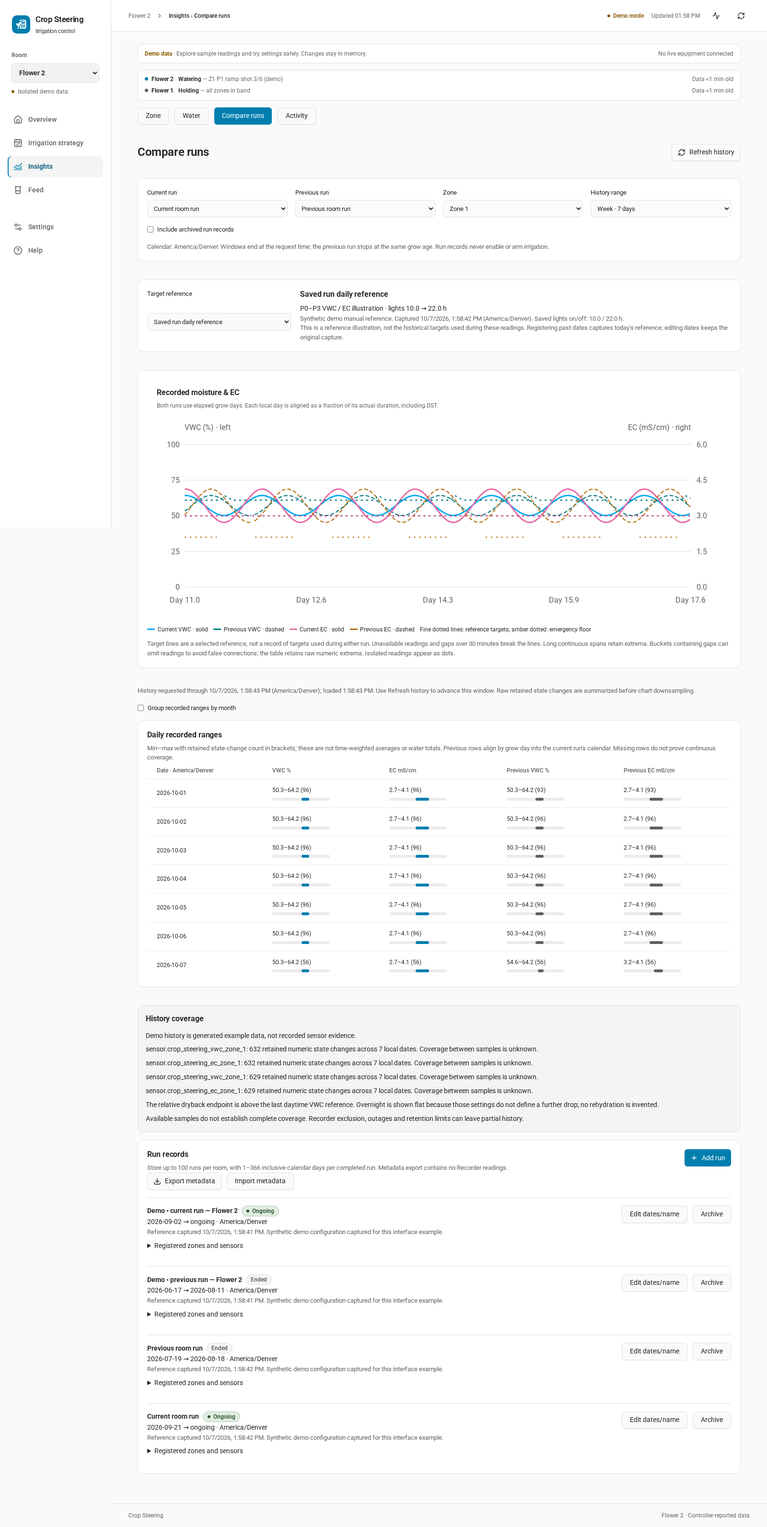
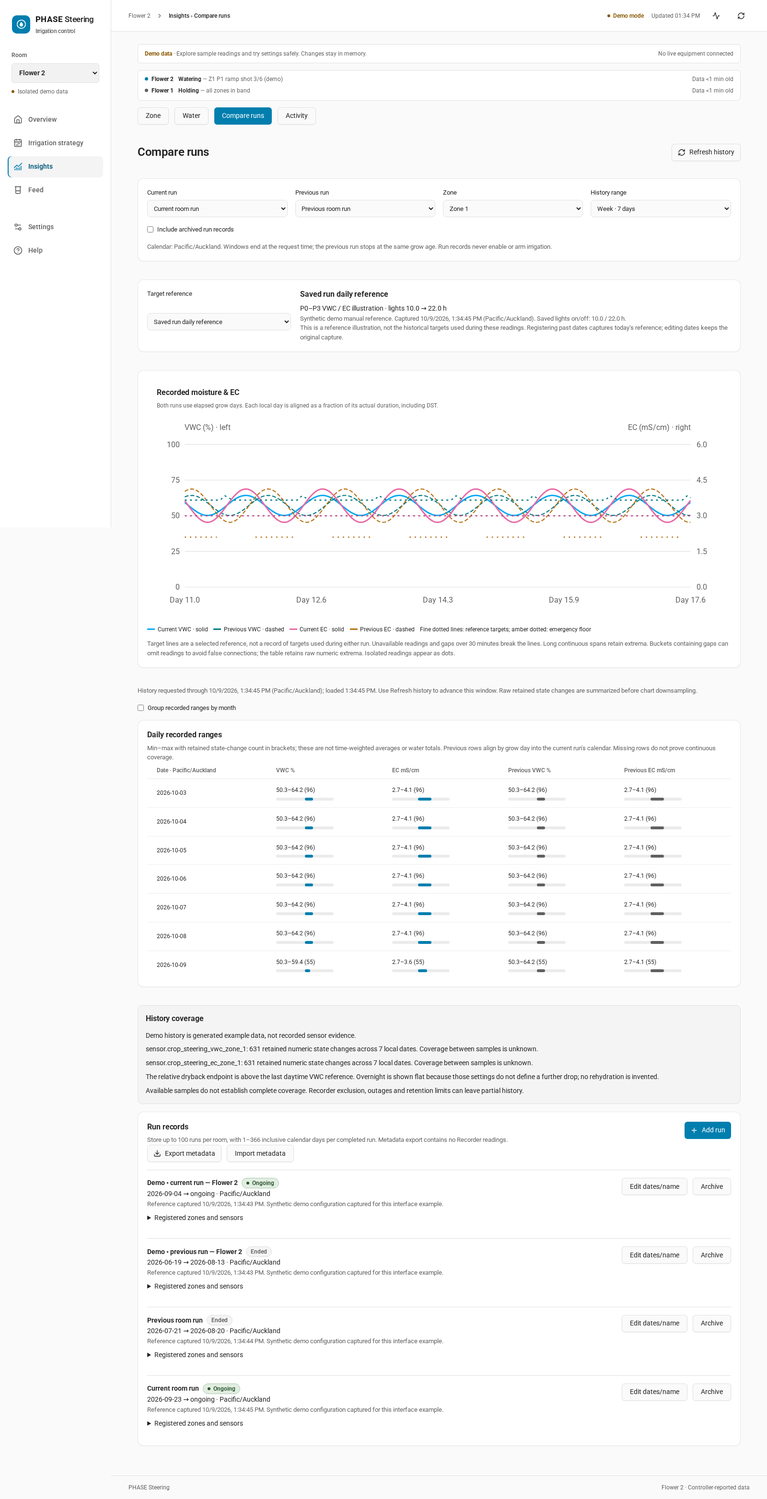
docs: PHASE Steering, what it stands for, and the screenshots with its mark
The README opens with what PHASE stands for, Precision Hydration And Steering Engine, and says it
was called Crop Steering until 1.0.2. The README, the install guide, How it works, the entity
reference, the sidebar and troubleshooting pages and the user guide say PHASE Steering (the CCI
e-book keeps its own title). The seven screenshots that show the menu are retaken with the new
mark. The changelog and What's new have the release's lines, brief.

diff --git a/tests/test_licence.py b/tests/test_licence.py
@@ -1,4 +1,4 @@
-"""The MIT licence travels with every part a box installs, and the README credits where Crop
+"""The MIT licence travels with every part a box installs, and the README credits where PHASE
 Steering began.
 
 HACS installs only custom_components/crop_steering, the app's image is built from addons/f2_control

diff --git a/docs/INSTALL.md b/docs/INSTALL.md
@@ -4,10 +4,10 @@
 
 ## What gets installed
 
-| Component                 | Where it runs                                                       | Purpose                                                                                                                                |
-| ------------------------- | ------------------------------------------------------------------- | -------------------------------------------------------------------------------------------------------------------------------------- |
-| Crop Steering integration | Home Assistant custom integration                                   | Room/zone configuration, entities, stored strategies, reviewed APIs and the native sidebar workspace.                                       |
-| Crop Steering Controller  | A Home Assistant app (Settings → Apps)                              | Reads the configuration and sensors, makes irrigation decisions and sequences equipment.                                               |
+| Component                  | Where it runs                                                       | Purpose                                                                                                                                |
+| -------------------------- | ------------------------------------------------------------------- | -------------------------------------------------------------------------------------------------------------------------------------- |
+| PHASE Steering integration | Home Assistant custom integration                                   | Room/zone configuration, entities, stored strategies, reviewed APIs and the native sidebar workspace.                                       |
+| PHASE Steering Controller  | A Home Assistant app (Settings → Apps)                              | Reads the configuration and sensors, makes irrigation decisions and sequences equipment.                                               |
 
 Install the integration and controller together. HACS, the integration's setup and Settings → Apps are separate steps. The guided links open those screens; they cannot pair devices, prove flow or bypass HA confirmations.
 
@@ -24,9 +24,9 @@ Install the integration and the controller app at the same version: both carry o
 ## Guided installation
 
 1. [Open this repository in HACS](https://my.home-assistant.io/redirect/hacs_repository/?owner=Chill-Division&repository=HA-Irrigation-Strategy&category=integration). Download the integration and restart HA. If HACS is absent, install HACS first or use the manual path below.
-2. [Start the Crop Steering config flow](https://my.home-assistant.io/redirect/config_flow_start/?domain=crop_steering). Name the room and say how many zones it has, then map each zone's valve and probes, and give the room's plumbing, lights hours and pot and dripper sizes. Later, **Settings → Rooms & hardware** (step 5) changes the mapping and sizes, and **Irrigation strategy → Today** the lights hours.
-3. [Add the app repository](https://my.home-assistant.io/redirect/supervisor_add_addon_repository/?repository_url=https%3A%2F%2Fgithub.com%2FChill-Division%2FHA-Irrigation-Strategy). In **Settings → Apps**, install **Crop Steering Controller**. Keep the affected engine enable flags OFF, review the app options, then start the app so it can publish its heartbeat and discover configuration. From then on it starts with the host (**Start on boot** is on unless you turn it off); turn on **Watchdog** as well, so Supervisor restarts it if it stops. Supervisor supplies the internal HA token; do not paste a token into a repository file.
-4. Open **Crop Steering** in the HA sidebar. The integration serves its bundled dashboard automatically; no manual dashboard YAML or custom Lovelace card installation is required. The controller's ingress can also serve the same dashboard. In supported HA shells, use the workspace's **Home Assistant** or house button to reopen the temporarily collapsed HA sidebar; see [sidebar behavior](HA_SIDEBAR.md).
+2. [Start the PHASE Steering config flow](https://my.home-assistant.io/redirect/config_flow_start/?domain=crop_steering). Name the room and say how many zones it has, then map each zone's valve and probes, and give the room's plumbing, lights hours and pot and dripper sizes. Later, **Settings → Rooms & hardware** (step 5) changes the mapping and sizes, and **Irrigation strategy → Today** the lights hours.
+3. [Add the app repository](https://my.home-assistant.io/redirect/supervisor_add_addon_repository/?repository_url=https%3A%2F%2Fgithub.com%2FChill-Division%2FHA-Irrigation-Strategy). In **Settings → Apps**, install **PHASE Steering Controller**. Keep the affected engine enable flags OFF, review the app options, then start the app so it can publish its heartbeat and discover configuration. From then on it starts with the host (**Start on boot** is on unless you turn it off); turn on **Watchdog** as well, so Supervisor restarts it if it stops. Supervisor supplies the internal HA token; do not paste a token into a repository file.
+4. Open **PHASE Steering** in the HA sidebar. The integration serves its bundled dashboard automatically; no manual dashboard YAML or custom Lovelace card installation is required. The controller's ingress can also serve the same dashboard. In supported HA shells, use the workspace's **Home Assistant** or house button to reopen the temporarily collapsed HA sidebar; see [sidebar behavior](HA_SIDEBAR.md).
 5. In **Settings → Rooms & hardware**, select or add a room. Name its zones. Search HA entities by friendly name or ID and check their units/current states while mapping valves, VWC probes, EC probes and room equipment. Multiple probes can be selected per zone. Every zone needs its valve. Under **Shared room hardware**, say how the room is plumbed: a tent with one smart plug or solenoid is *Zone valves only* and maps that switch as the zone's valve and nothing else; a room where water only flows while a pump runs is *A pump, then zone valves* and must have the pump chosen. The switches have to match the answer, and the controller holds a room whose switches stop matching rather than watering it with no pump.
 6. Enter substrate litres **per plant**, plant count, drippers per plant and each dripper's L/hour.
 7. Choose **Review configuration**, then **Save configuration**. Setup validates entity domains, moisture/EC units, duplicate valve assignments, revision conflicts and readable OFF states of the affected engine/equipment. A saved configuration and controller acknowledgement are shown separately; wait for **Mapping acknowledged** instead of assuming a save has already reached the controller.
@@ -62,7 +62,7 @@ Update an existing controller in place from this repository. A controller instal
 1. Back up HA, the controller's persistent data and existing setpoints. Export irrigation strategies if available. Record which engines are enabled.
 2. Turn the affected engines off and wait for the pump, mainline and valves to be OFF. Stop the existing controller while replacing software.
 3. Refresh your existing app repository and update that controller in place to the release's version. A restart alone does not rebuild an old image. Do not install a second copy. The controller starts with the host unless its **Start on boot** was turned off, so a host restart during the upgrade starts it; with the engines off (step 2) it waters nothing.
-4. Download the same version of the integration through HACS and restart HA. Confirm every Crop Steering room finishes loading.
+4. Download the same version of the integration through HACS and restart HA. Confirm every PHASE Steering room finishes loading.
 5. Start the controller with engines still off. Verify its version, fresh heartbeat, both room descriptors, sensor readings, setup acknowledgement and strategy capability. Compare current setpoints and pot/dripper sizing with the backup.
 6. Restore the engines' previous enabled states after these checks. An upgrade does not require arming a strategy or replacing existing values with defaults.
 
@@ -70,9 +70,9 @@ If an update is missing from Settings → Apps, refresh the repository informati
 
 ### Moving a controller installed from another repository
 
-Crop Steering started at `JakeTheRabbit/HA-Irrigation-Strategy`, and its controller was also mirrored to `JakeTheRabbit/f2-control`. Supervisor names an app after the repository it came from, so the same controller from another repository is a separate app with its own data: `f50c47e4_f2_control` from this repository, `6db5faba_f2_control` from `JakeTheRabbit/HA-Irrigation-Strategy` and `4d457e60_f2_control` from the mirror. Moving is a one-time reinstall that carries the runtime state across:
+PHASE Steering, called Crop Steering until 1.0.2, started at `JakeTheRabbit/HA-Irrigation-Strategy`, and its controller was also mirrored to `JakeTheRabbit/f2-control`. Supervisor names an app after the repository it came from, so the same controller from another repository is a separate app with its own data: `f50c47e4_f2_control` from this repository, `6db5faba_f2_control` from `JakeTheRabbit/HA-Irrigation-Strategy` and `4d457e60_f2_control` from the mirror. Moving is a one-time reinstall that carries the runtime state across:
 
-1. Add this repository in Settings → Apps and install **Crop Steering Controller** from it. Do not start it, and turn its **Start on boot** off for now: it is on by default, and a host restart before step 6 would otherwise start both apps.
+1. Add this repository in Settings → Apps and install **PHASE Steering Controller** from it. Do not start it, and turn its **Start on boot** off for now: it is on by default, and a host restart before step 6 would otherwise start both apps.
 2. Copy the old app's Configuration into the new app: every option.
 3. Turn every engine kill switch off and wait until the pump, mainline and valves read OFF.
 4. Stop the old app and turn off its Start on boot and Watchdog.

diff --git a/README.md b/README.md
@@ -1,11 +1,13 @@
-# Crop Steering for Home Assistant
+# PHASE Steering for Home Assistant
 
 ![Release](https://img.shields.io/badge/Release-1.0.1-blue)
 ![Home Assistant](https://img.shields.io/badge/Home%20Assistant-2026.5+-41BDF5)
 ![HACS](https://img.shields.io/badge/HACS-Custom-orange)
 ![License](https://img.shields.io/badge/License-MIT-green)
 
-Crop Steering waters a grow room automatically. Every minute it reads each zone's moisture and EC probes, decides whether the zone needs a shot and how big, and runs your pump and valves to deliver it, through the four-phase day that crop-steering growers use. It runs inside [Home Assistant](https://www.home-assistant.io/) with the probes, pumps and valves you already have, on your own hardware: no cloud account, no subscription.
+**PHASE** stands for **Precision Hydration And Steering Engine**. It was called Crop Steering until 1.0.2.
+
+PHASE Steering waters a grow room automatically. Every minute it reads each zone's moisture and EC probes, decides whether the zone needs a shot and how big, and runs your pump and valves to deliver it, through the four-phase day that crop-steering growers use. It runs inside [Home Assistant](https://www.home-assistant.io/) with the probes, pumps and valves you already have, on your own hardware: no cloud account, no subscription.
 
 **Deterministic, sensor-driven crop steering.** No AI makes any decision. Every shot comes from a published rule and your setpoints: the same readings, settings and day so far always give the same decision, and the dashboard shows the numbers behind each one. Nothing guesses, nothing makes up a reading, and nothing apologises after the fact.
 
@@ -47,15 +49,15 @@ More in the [screenshots](https://github.com/Chill-Division/HA-Irrigation-Strate
 
 ## Install
 
-Crop Steering comes in two parts, and watering needs both: the **integration** keeps your rooms, settings and strategies and adds the Crop Steering page to the sidebar, but never switches anything; the **controller app** reads the probes and runs the pump and valves.
+PHASE Steering comes in two parts, and watering needs both: the **integration** keeps your rooms, settings and strategies and adds the PHASE Steering page to the sidebar, but never switches anything; the **controller app** reads the probes and runs the pump and valves.
 
 1. **Download the integration with HACS**, then restart Home Assistant.
    [![Open your Home Assistant instance and open this repository in HACS.](https://my.home-assistant.io/badges/hacs_repository.svg)](https://my.home-assistant.io/redirect/hacs_repository/?owner=Chill-Division&repository=HA-Irrigation-Strategy&category=integration)
-2. **Add Crop Steering** and name your first room.
-   [![Open your Home Assistant instance and start setting up Crop Steering.](https://my.home-assistant.io/badges/config_flow_start.svg)](https://my.home-assistant.io/redirect/config_flow_start/?domain=crop_steering)
-3. **Add the controller app's repository**, then install and start **Crop Steering Controller**.
+2. **Add PHASE Steering** and name your first room.
+   [![Open your Home Assistant instance and start setting up PHASE Steering.](https://my.home-assistant.io/badges/config_flow_start.svg)](https://my.home-assistant.io/redirect/config_flow_start/?domain=crop_steering)
+3. **Add the controller app's repository**, then install and start **PHASE Steering Controller**.
    [![Open your Home Assistant instance and add this app repository.](https://my.home-assistant.io/badges/supervisor_add_addon_repository.svg)](https://my.home-assistant.io/redirect/supervisor_add_addon_repository/?repository_url=https%3A%2F%2Fgithub.com%2FChill-Division%2FHA-Irrigation-Strategy)
-4. **Open Crop Steering in the sidebar.** Map your valves, pump and probes in **Settings, Rooms & hardware**, check the readings on the **Overview**, and keep watering switched off until everything reads correctly.
+4. **Open PHASE Steering in the sidebar.** Map your valves, pump and probes in **Settings, Rooms & hardware**, check the readings on the **Overview**, and keep watering switched off until everything reads correctly.
 
 **Updating:** both parts carry one version number; update them together. Update the integration in HACS and restart Home Assistant, then press **Update** on the controller app (restarting it alone keeps the old version). Updates keep your rooms, settings, strategies and history. The [install guide](https://github.com/Chill-Division/HA-Irrigation-Strategy/blob/main/docs/INSTALL.md) covers manual installs, upgrades and rolling back.
 
@@ -69,11 +71,11 @@ Crop Steering comes in two parts, and watering needs both: the **integration** k
 
 ## Support
 
-Report a problem or ask a question in [GitHub issues](https://github.com/Chill-Division/HA-Irrigation-Strategy/issues). Include the error code if there is one, both version numbers (shown in the Crop Steering sidebar), and what the controller app's log says.
+Report a problem or ask a question in [GitHub issues](https://github.com/Chill-Division/HA-Irrigation-Strategy/issues). Include the error code if there is one, both version numbers (shown in the PHASE Steering sidebar), and what the controller app's log says.
 
 ## Credits
 
-Crop Steering began as [JakeTheRabbit's HA-Irrigation-Strategy](https://github.com/JakeTheRabbit/HA-Irrigation-Strategy), and this project carries it on.
+PHASE Steering began as [JakeTheRabbit's HA-Irrigation-Strategy](https://github.com/JakeTheRabbit/HA-Irrigation-Strategy), and this project carries it on.
 
 ## License
 

diff --git a/docs/troubleshooting.md b/docs/troubleshooting.md
@@ -15,7 +15,7 @@ for what it means, what happens to watering meanwhile, the likely causes and wha
 | Probe rejected for its unit                        | Pore EC is accepted in mS/cm, dS/m and µS/cm; moisture in % or m³/m³. Other units are converted exactly or refused. `ppm` is refused because the 500 or 700 scale is not something a sensor reports: expose the probe's EC reading instead.                                                                                                                                             |
 | Room saved but never waters, and it has one switch | A zone needs only its valve; pump and main-line valve are optional. Under **Shared room hardware** choose *Zone valves only*, map the single switch as the zone's valve and leave pump and main-line empty. One switch cannot be used in two roles.                                                                                                                                             |
 | Room has a pump, shots are counted, VWC never rises | The room has never said how it is plumbed, so the controller works it out from what is mapped: an empty pump field means it never runs a pump, opens the zone switch and counts the shot as delivered. Open **Settings → Rooms & hardware** (or *Configure*), choose the layout with a pump, choose the pump, save. From then on a missing pump holds the room instead of running it dry; see the [first-run review](audits/2026-09-21-first-run-review.md). |
-| Setup stops with *Home Assistant is still running Crop Steering X, but Y is installed* | HACS replaces the files; Home Assistant goes on running the code it loaded when it started. Restart Home Assistant, then add Crop Steering again. The first setup screen, the add-a-room screen and the **Configure** menu all show the version that is actually running. A room set up on stale code keeps whatever that code created, entity ids included, and those are for life: the symptoms are a controller reporting *settings missing, running on built-in values* (CS-402), a sidebar reading *Integration: not reported*, and entities called `number.<your device>_crop_steering_…`. The way out is to delete the integration, restart Home Assistant, and set it up again. |
+| Setup stops with *Home Assistant is still running PHASE Steering X, but Y is installed* | HACS replaces the files; Home Assistant goes on running the code it loaded when it started. Restart Home Assistant, then add PHASE Steering again. The first setup screen, the add-a-room screen and the **Configure** menu all show the version that is actually running. A room set up on stale code keeps whatever that code created, entity ids included, and those are for life: the symptoms are a controller reporting *settings missing, running on built-in values* (CS-402), a sidebar reading *Integration: not reported*, and entities called `number.<your device>_crop_steering_…`. The way out is to delete the integration, restart Home Assistant, and set it up again. |
 | Repairs says *N setting(s) are not where the controller looks for them (CS-605)* | The controller and the dashboard find a setting by its exact entity id (`number.crop_steering_zone_1_plant_count`), and the listed ones are registered under another id, so the controller runs on its built-in defaults for them and reports *settings missing, running on built-in values* (CS-402). Keep the engine off. One or two listed: an entity id was edited; change it back under Settings → Devices & services → Entities → the entity → the cog. Nearly all listed: the room was created while Home Assistant was still running an older integration (see the row above); delete the entry, restart Home Assistant, add it again. The card clears by itself, and nothing is renamed for you. |
 | Repairs: *kill switch helper missing (CS-601)*, asking for `input_boolean.f2_control_enabled` | Only a room that really is gated by that helper (an install from before the setup wizard) needs it: create it as a Toggle helper and leave it OFF until you are ready to water. **On a room made by the wizard, do not create it.** Such a room has its own kill switch, *Engine Enabled* (`switch.crop_steering_engine_enabled`); the helper would be a second one that does nothing. See [CS-601](ERROR_CODES.md#cs-601). |
 | Alert: *moisture reading hasn't changed (CS-101)*, but the sensor shows a value | The controller treats a reading that has not **changed** for 20 minutes as a dead probe, and waters that zone on a timed safety schedule instead (a shot every 90 minutes by default, within the daily cap). This is deliberate: a probe pulled out of its cube keeps reporting a steady number, and the plant it left behind still needs water. It also happens to a probe sitting in a cube with **no plant in it**, or pegged at its maximum in a soaked one, because nothing is drinking and the number never moves. Expect it on a bench test; with a plant drawing water it clears by itself. A room with nothing growing can be switched off (**Switch room off…** on the Overview, *Room Active* in Home Assistant), which stops its notifications. See [CS-101](ERROR_CODES.md#cs-101). |

diff --git a/CHANGELOG.md b/CHANGELOG.md
@@ -1,6 +1,6 @@
 # Changelog
 
-All notable changes to the Advanced Automated Crop Steering System will be documented in this file.
+All notable changes to PHASE Steering (Crop Steering until 1.0.2) will be documented in this file.
 
 **Two views per release.** Each version leads with what changed and why it matters, written so
 anyone can follow it without knowing the internals, followed by **🔧 Technical notes**, the entity-
@@ -8,6 +8,35 @@ and code-level detail for developers and AI agents working on the repo.
 
 The format is based on [Keep a Changelog](https://keepachangelog.com/en/1.0.0/),
 and this project adheres to [Semantic Versioning](https://semver.org/spec/v2.0.0.html).
+
+## [Unreleased]
+
+- **Crop Steering is now PHASE Steering**, short for Precision Hydration And Steering Engine, with
+  a new icon: the day's four phases around a drop of water. Nothing else changes: your rooms,
+  settings, strategies, history and automations carry on as they were.
+
+### 🔧 Technical notes
+
+- Names only. The integration (`manifest.json`, `hacs.json`), its sidebar entry (now
+  `mdi:water-circle`), the room's device, the zones' entity names (`PHASE Steering Zone N …`), the
+  setup wizard's default name, the setup and Repairs texts, the error codes, the dashboard, the
+  controller app (`PHASE Steering Controller`, its panel and `repository.yaml`) and the brand images.
+  The integration keeps the name in one place, `const.PRODUCT_NAME`.
+- Unchanged: the `crop_steering` domain, every entity id, the `f2_control` slug and the app's
+  options and `/data`, the sidebar's address, the strategy and feed recipe file formats and the
+  repository's address.
+- The room's device had two names, "Crop Steering System" from the sensors and "Crop Steering" from
+  the other platforms, whichever registered last; it has one, PHASE Steering. Home Assistant renames
+  the device and the entities' default names in place, and keeps any name the operator gave either.
+  From 2026.9 Home Assistant shows the device's name in front of each entity's, so a room's entities
+  read "PHASE Steering …" there.
+- Controller: the vitals notifications are titled "PHASE Steering vitals" where the app's
+  "Name in notifications" option was never changed. A room left at the wizard's default name
+  (PHASE Steering, or Crop Steering System before) is still left out of alerts
+  (`DEFAULT_ROOM_NAMES`).
+- Tests: `tests_ha/test_product_name.py` (a fresh install, and a seeded old install updated in
+  place: the device and names follow, no id moves, the operator's device name stays) and a real
+  wizard left at its default name in `tests_ha/test_alerts_name_the_zone.py`.
 
 ## [1.0.1] - 2026-10-08
 

diff --git a/docs/HA_SIDEBAR.md b/docs/HA_SIDEBAR.md
@@ -1,14 +1,14 @@
 # Home Assistant sidebar
 
-When opened inside a compatible Home Assistant shell, Crop Steering temporarily collapses the HA sidebar. Use **Home Assistant** at the bottom of Crop Steering's navigation, or the house button in its top bar, to open the HA menu over the workspace. The top-bar button stays available on mobile.
+When opened inside a compatible Home Assistant shell, PHASE Steering temporarily collapses the HA sidebar. Use **Home Assistant** at the bottom of PHASE Steering's navigation, or the house button in its top bar, to open the HA menu over the workspace. The top-bar button stays available on mobile.
 
-Leaving Crop Steering restores the prior kiosk state. This does not change Home Assistant's saved sidebar preference. Standalone tabs and unsupported or cross-origin embeddings retain their normal navigation.
+Leaving PHASE Steering restores the prior kiosk state. This does not change Home Assistant's saved sidebar preference. Standalone tabs and unsupported or cross-origin embeddings retain their normal navigation.
 
 ## Verified native panel behavior
 
 Opening the native panel hides the Home Assistant sidebar, and the **Home Assistant** button brings it back. This was checked on a real installation; companion apps and third-party kiosk extensions may behave differently.
 
-Crop Steering's menu (Overview, Irrigation strategy, Insights, Feed, Settings and Help, with tabs across the top where an entry holds more than one page) moves around the workspace only; it does not replace the Home Assistant menu button. Each page has its own address, so a bookmark opens it; an address the dashboard does not know opens **Overview**.
+PHASE Steering's menu (Overview, Irrigation strategy, Insights, Feed, Settings and Help, with tabs across the top where an entry holds more than one page) moves around the workspace only; it does not replace the Home Assistant menu button. Each page has its own address, so a bookmark opens it; an address the dashboard does not know opens **Overview**.
 
 ## Implementation references
 

diff --git a/docs/ENTITIES.md b/docs/ENTITIES.md
@@ -1,6 +1,6 @@
 # Entity Reference: Complete Schema
 
-Every entity the Crop Steering System creates, what it does, its range/options, and
+Every entity PHASE Steering creates, what it does, its range/options, and
 its default: what a new room's entity starts at. Where the setup wizard asks (plant count,
 pot size, drippers, lights hours), your answers replace the default. Per-zone entities
 scale with your zone count, `N` = 1…zones.
@@ -229,7 +229,7 @@ The controller also publishes `sensor.f2_control_vitals`: the time of its last v
 ## 6. Hardware (your own switches/sensors: mapped in Rooms & hardware, not created here)
 
 The pump, mainline solenoid, per-zone valve switches, and the raw VWC/EC sensors are **your**
-existing HA entities. Map them in the Crop Steering sidebar under
+existing HA entities. Map them in the PHASE Steering sidebar under
 **Settings → Rooms & hardware**: the controller drives what the room's setup maps, and with nothing mapped
 it holds every zone and says so. (The controller also reads a `hardware` map from its options
 file, for tests and hand-built development setups only: the app's Configuration tab doesn't

diff --git a/docs/USER_GUIDE.md b/docs/USER_GUIDE.md
@@ -154,7 +154,7 @@ An HA administrator uses **Settings → Rooms & hardware**. Pair devices and exp
 
 Zone and room removal archives stable IDs. **Restore zone** or **Restore room** reactivates the same identity after review; archived slots are not silently reused for different hardware. Adding/archiving a zone may require updating a draft irrigation strategy's assignments.
 
-Every saved change is recorded in Home Assistant's **Activity** (the logbook), on the room's device page too: who saved it and what changed, for example *Growroom 2 setup saved (revision 2): renamed from "Crop Steering System"*. A change Home Assistant refuses is not saved, so it is not recorded; the review says why it was refused.
+Every saved change is recorded in Home Assistant's **Activity** (the logbook), on the room's device page too: who saved it and what changed, for example *Growroom 2 setup saved (revision 2): renamed from "PHASE Steering"*. A change Home Assistant refuses is not saved, so it is not recorded; the review says why it was refused.
 
 ### Tests
 

diff --git a/docs/HOW_IT_WORKS.md b/docs/HOW_IT_WORKS.md
@@ -1,6 +1,6 @@
-# How Crop Steering works
+# How PHASE Steering works
 
-This page explains, in plain words, how Crop Steering decides when to water and how much, so you
+This page explains, in plain words, how PHASE Steering decides when to water and how much, so you
 can tell why a zone did what it did without reading any code. It is about the reasoning; the
 [User guide](USER_GUIDE.md) is about using the dashboard, and every setting's **?** on
 **Irrigation strategy → Today** says what that one setting does.

diff --git a/custom_components/crop_steering/WHATS_NEW.md b/custom_components/crop_steering/WHATS_NEW.md
@@ -21,6 +21,10 @@ people who build the system:
 `tests/test_whats_new.py` checks the shape and the plain words, and that the newest section is the
 version being released.
 
+## Unreleased
+
+- Crop Steering is now PHASE Steering, short for Precision Hydration And Steering Engine, with a new icon.
+
 ## 1.0.1 - 2026-10-08
 
 - Unified naming of Irrigation Strategy and Feed Recipes.
